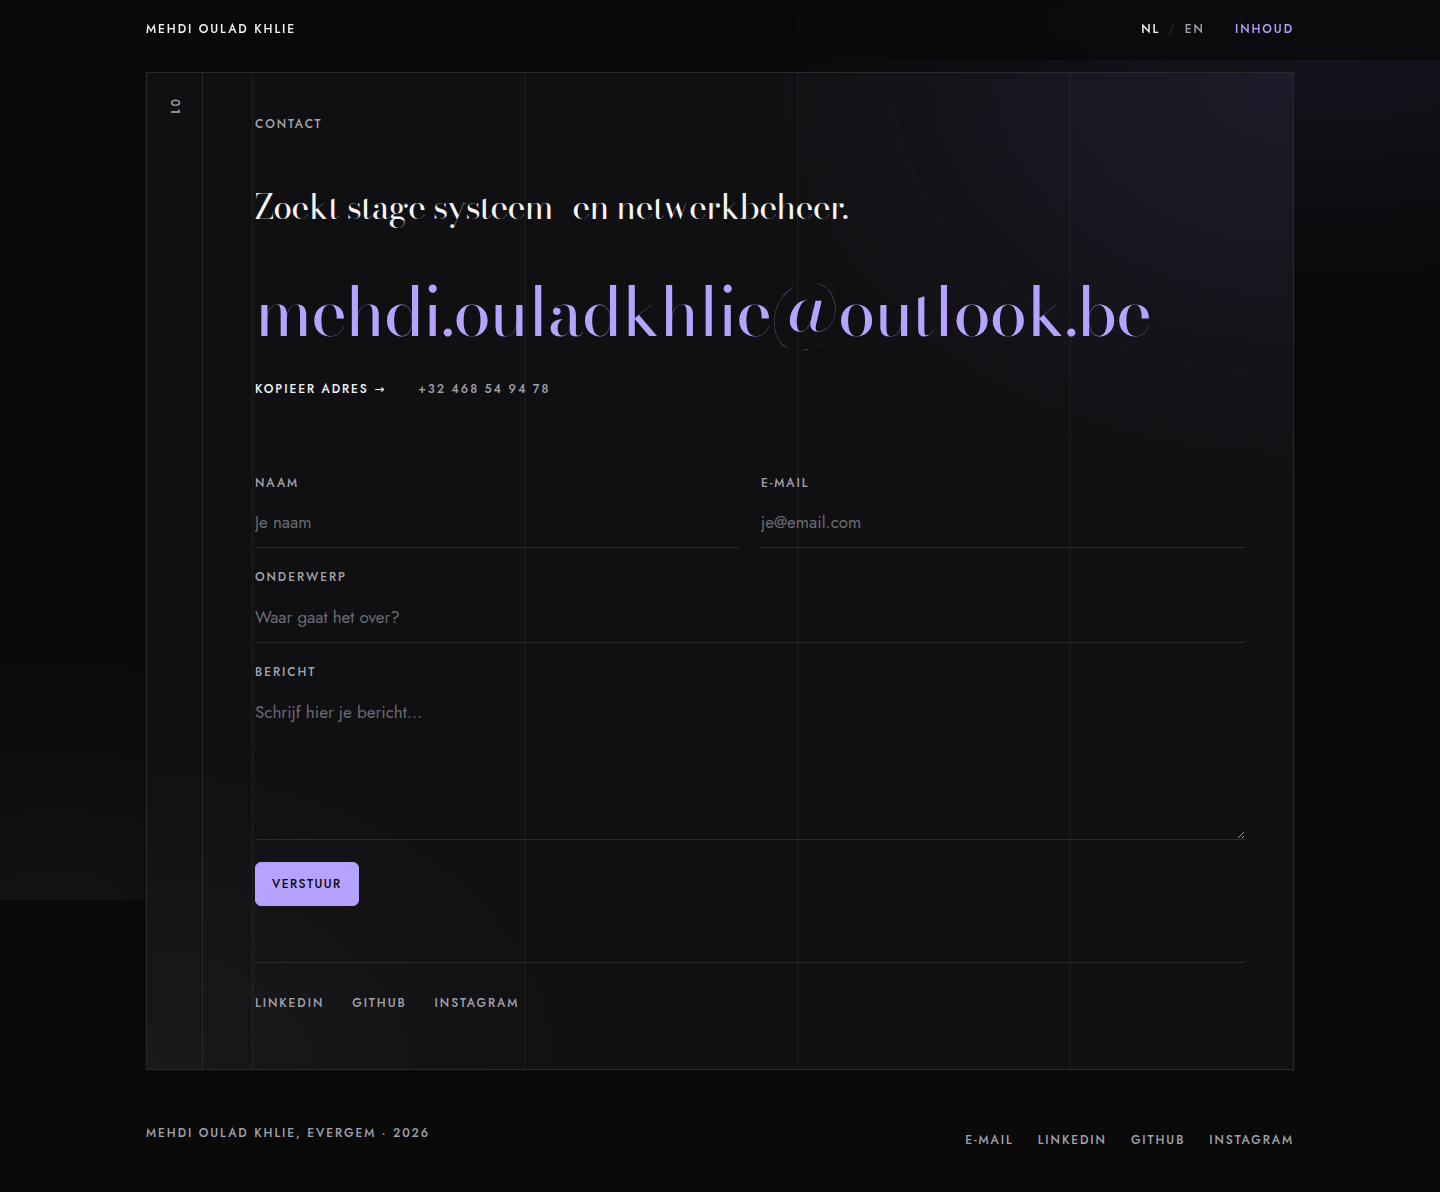
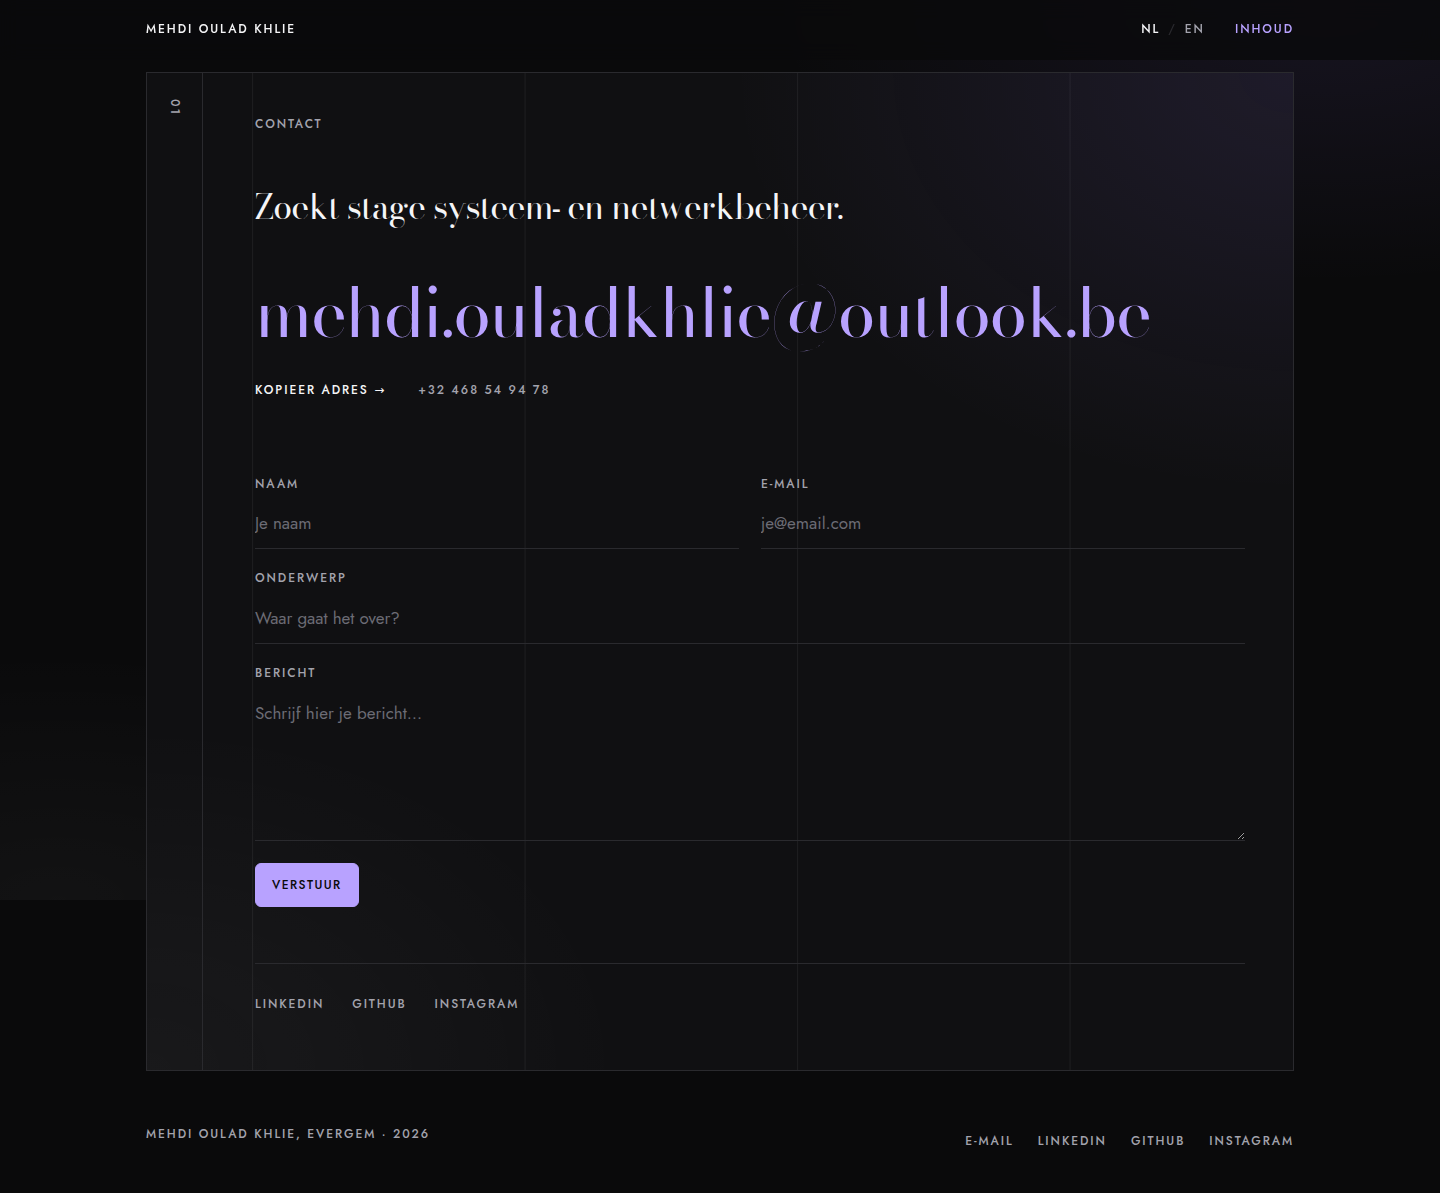
Set hyphens in display text in the body face so they stay visible
Claude-Session: https://claude.ai/code/session_01Pn49s76W2QXdpGbmCqD2ey

diff --git a/pages/Home.tsx b/pages/Home.tsx
@@ -1,6 +1,7 @@
 import React from 'react';
 import { Link, useLocation, useNavigate } from 'react-router-dom';
 import Panel from '../components/site/Panel';
+import Hy from '../components/site/Hy';
 import IndexRows from '../components/site/IndexRows';
 import ContactPanel from '../components/site/ContactPanel';
 import Clock from '../components/site/Clock';
@@ -90,7 +91,7 @@ const Home: React.FC = () => {
             {c.about.label}
           </h2>
         </div>
-        <p className="disp about__text">{c.about.body}</p>
+        <p className="disp about__text"><Hy text={c.about.body} /></p>
         <dl className="facts">
           {c.about.facts.map((fact) => (
             <div key={fact.key}>

diff --git a/components/site/ContactPanel.tsx b/components/site/ContactPanel.tsx
@@ -1,6 +1,7 @@
 import React from 'react';
 import { Link } from 'react-router-dom';
 import Panel from './Panel';
+import Hy from './Hy';
 import { useLanguage } from '../../contexts/LanguageContext';
 import { EMAIL, PHONE, SOCIALS } from '../../utils/content';
 
@@ -36,7 +37,7 @@ const ContactPanel: React.FC<{ number: string; asPage?: boolean; children?: Reac
           {c.contact.label}
         </Heading>
       </div>
-      <p className="disp contact__line">{c.contact.line}</p>
+      <p className="disp contact__line"><Hy text={c.contact.line} /></p>
       <a className="contact__mail" href={`mailto:${EMAIL}`}>
         {EMAIL}
       </a>

diff --git a/components/site/Hy.tsx b/components/site/Hy.tsx
@@ -1,0 +1,21 @@
+import React from 'react';
+
+/**
+ * Bodoni Moda draws its hyphen as a hairline that all but disappears at
+ * display sizes, so hyphens inside display text are set in the body face.
+ */
+const Hy: React.FC<{ text: string }> = ({ text }) => (
+  <>
+    {text.split(/(-)/g).map((part, i) =>
+      part === '-' ? (
+        <span key={i} className="hy">
+          -
+        </span>
+      ) : (
+        part
+      ),
+    )}
+  </>
+);
+
+export default Hy;

diff --git a/src/index.css b/src/index.css
@@ -180,6 +180,12 @@ button.lbl--accent:hover {
   letter-spacing: -0.02em;
 }
 
+/* A hyphen in display text, drawn in the body face (see components/site/Hy). */
+.hy {
+  font-family: var(--body);
+  font-weight: 400;
+}
+
 /* Nadruk in lopende tekst: Jost als basis, Bodoni Moda voor het woord. */
 em {
   font-family: var(--display);
